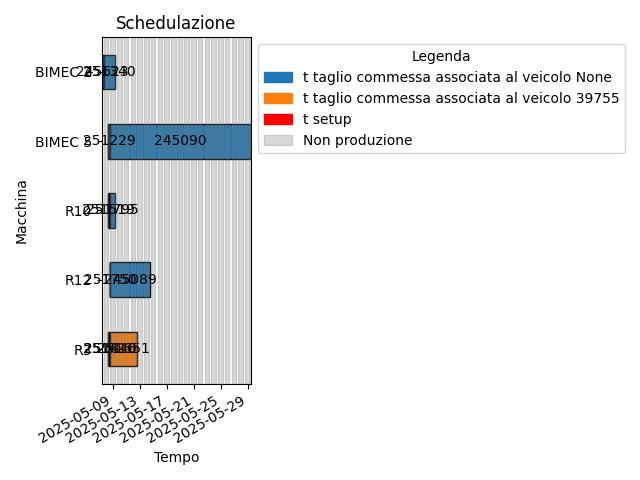
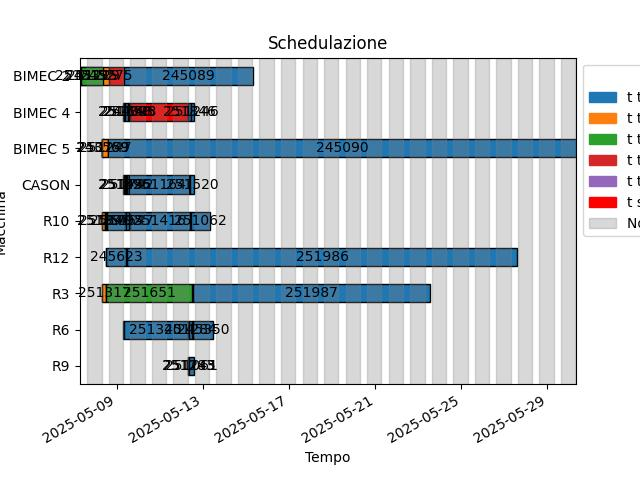
Test finale

diff --git a/PS-VRP/solver.py b/PS-VRP/solver.py
@@ -68,11 +68,11 @@ def aggiorna_schedulazione1(commessa: Commessa ,macchina: Macchina, tempo_setup,
 
 def filtro_commesse(lista_commesse:list,lista_veicoli):
     lista_veicoli_disponibili = [veicolo for veicolo in lista_veicoli] #if veicolo.disponibilita == 1]  # lista che contiene i veicoli disponibili (veicoli filtrati per disponibilità)
-    #print(f'lista veicoli disponibili {lista_veicoli_disponibili}')
     zone_aperte = set([veicolo.zone_coperte for veicolo in lista_veicoli_disponibili])  # set contenente tutte le zone aperte (una lista può contenere duplicati, mentre un set ha elementi unici)
     commesse_da_tagliare = [] #commesse assegnabili in base alle zone
     commesse_da_schedulare = [] #commesse assegnabili in base ai veicoli
     #commesse_oltre_data = {} #commesse da tagliare non schedulate perché oltre data partenza massima veicolo; formato dizionario per unirlo al resto
+    
     for commessa in lista_commesse:
         intersezione = set(commessa.zona_cliente).intersection(zone_aperte)  # calcolo l'intersezione tra l'insieme delle zone della commessa e le zone aperte
         if intersezione:  # se l'intersezione contiene elementi (è diversa dall'insieme vuoto)
@@ -96,7 +96,9 @@ def filtro_commesse(lista_commesse:list,lista_veicoli):
             for commessa in lista_commesse
             if commessa not in commesse_da_tagliare  and 0 not in commessa.zona_cliente
         }
-    
+        
+        commesse_zona_chiusa = [c for c in lista_commesse if c not in commesse_da_tagliare and 0 not in c.zona_cliente]
+
         #Nuova strutturazione dati
         commesse_filtro_veicoli = {}
         commesse_interne_solo_macchine = []
@@ -107,8 +109,9 @@ def filtro_commesse(lista_commesse:list,lista_veicoli):
                     'La commessa non può essere schedulata in quanto non sussiste compatibilità con i veicoli disponibili'
                 )
                 commesse_interne_solo_macchine.append(commessa)
+                #print(f'Numero di commesse solo su macchina: {len(commesse_interne_solo_macchine)}')
 
-    return commesse_da_schedulare, commesse_filtro_zone, commesse_filtro_veicoli, commesse_interne_solo_macchine
+    return commesse_da_schedulare, commesse_filtro_zone, commesse_filtro_veicoli, commesse_zona_chiusa
 
 def return_schedulazione(commessa: Commessa, macchina:Macchina, minuti_setup, minuti_processamento, minuti_fine_ultima_commessa, inizio_schedulazione, schedulazione):
     id=commessa.id_commessa
@@ -141,35 +144,30 @@ def return_schedulazione(commessa: Commessa, macchina:Macchina, minuti_setup, mi
                           "veicolo": camion})
 
 ##EURISTICO COSTRUTTIVO (Greedy)
-def euristico_costruttivo(lista_commesse:list, lista_macchine:list, lista_veicoli:list, commesse_interne_solo_macchine: list):
-    #data_partenza_veicoli(lista_commesse,lista_veicoli)
+def euristico_costruttivo(commesse_da_schedulare:list, lista_macchine:list, lista_veicoli:list, commesse_zona_chiusa: list):
     causa_fallimento={} #dizionario con formato "commessa_fallita:motivo"
-    #lista_commesse_0=[c for c in lista_commesse if 0 in c.zona_cliente] #lista commesse "zona zero" (vettori esterni)
-    #lista_commesse_restanti=[c for c in lista_commesse if 0 not in c.zona_cliente] #lista commesse vettori interni
-    #sorting separato
-    #lista_commesse_0.sort(key=lambda c: (c.due_date.timestamp(), c.priorita_cliente))
-    #lista_commesse_restanti.sort(key=lambda c: (c.due_date.timestamp(), c.priorita_cliente))
-    #riunione liste
-    #lista_commesse = lista_commesse_0 + lista_commesse_restanti
-    #for commessa in lista_commesse:
-    #    print(f'Commessa: {commessa.id_commessa}, Priorità: {commessa.priorita_cliente}, Due Date: {commessa.due_date.timestamp()}')
-    
-    #Nuovo criterio di ordinamento
-    lista_commesse_tempestive=[c for c in lista_commesse if c.tempestivita == 1]
-    commesse_interne_solo_macchine.sort(key=lambda c: (c.due_date.timestamp(), c.priorita_cliente))
-    
-    
+
+    ##NUOVO CRITERIO PER SEPARAZIONE COMMESSE FILTRATE
+    #Commesse tassative (i.e. veicolo predeterminato e obbligato)
+    lista_commesse_tassative=[c for c in commesse_da_schedulare if c.tassativita == 1]
+    #Commesse da schedulare non tassative (i.e. tutte le commesse filtrate non tassative)
+    commesse_da_schedulare = [c for c in commesse_da_schedulare if c not in lista_commesse_tassative]
+
     f_obj = 0  # funzione obiettivo (somma pesata dei tempi di setup)
     schedulazione = []  # è una lista che conterrà tutte le schedulazioni
+
+    #Inizializzazioni schedulazione
     for i in lista_macchine:
         Macchina.inizializza_lista_commesse(i)  # inizializzo ogni macchina con una commessa dummy
     inizio_schedulazione = lista_macchine[0].data_inizio_schedulazione  # è il primo lunedi disponibile che è uguale per tutte le macchine
-    lista_macchine_due=[]
-    while len(lista_commesse_tempestive)>0 and len(lista_macchine)>0:
+    lista_macchine_copy = deepcopy(lista_macchine)
+
+    #Primo ciclo While: si assegnano per prime tutte le commesse tassative alle macchine e al loro veicolo indicato (id_tassativo)
+    while len(lista_commesse_tassative)>0 and len(lista_macchine)>0:
         schedulazione_eseguita=False
         lista_macchine=sorted(lista_macchine,key=lambda macchina: macchina._minuti_fine_ultima_lavorazione)
         macchina=lista_macchine[0]
-        for commessa in lista_commesse_tempestive:
+        for commessa in lista_commesse_tassative:
             if 0 in commessa.zona_cliente:
                 if macchina.disponibilita == 1 and commessa.compatibilita[macchina.nome_macchina] == 1 and commessa._minuti_release_date <= macchina._minuti_fine_ultima_lavorazione:
                     tempo_inizio_taglio = macchina._minuti_fine_ultima_lavorazione
@@ -179,10 +177,11 @@ def euristico_costruttivo(lista_commesse:list, lista_macchine:list, lista_veicol
                     data_fine_lavorazione = aggiungi_minuti(tempo_fine_lavorazione, inizio_schedulazione)
                     schedulazione_eseguita=True
                     f_obj+=tempo_setup
+                    commessa.veicolo = "Veicolo esterno" #da fare prima dell'aggiornamento
                     aggiorna_schedulazione1(commessa,macchina,tempo_setup,tempo_processamento,inizio_schedulazione,schedulazione,macchina._minuti_fine_ultima_lavorazione)
-                    lista_commesse_tempestive.remove(commessa)
-                    commessa.veicolo = "Veicolo esterno"
-                if schedulazione_eseguita==True:
+                    lista_commesse_tassative.remove(commessa)
+                if schedulazione_eseguita:
+                    print(f'SUCCESSI ESTERNE TASSATIVE')
                     break
             elif macchina.disponibilita == 1 and commessa.compatibilita[macchina.nome_macchina] == 1 and commessa._minuti_release_date <= macchina._minuti_fine_ultima_lavorazione:
                 tempo_inizio_taglio = macchina._minuti_fine_ultima_lavorazione
@@ -190,19 +189,48 @@ def euristico_costruttivo(lista_commesse:list, lista_macchine:list, lista_veicol
                 tempo_setup = macchina.calcolo_tempi_setup(macchina.lista_commesse_processate[-1],commessa)  # calcolo il tempo di setup come il tempo necessario a passare dall'ultima lavorazione alla lavorazione in questione
                 tempo_fine_lavorazione = tempo_inizio_taglio + tempo_processamento + tempo_setup
                 data_fine_lavorazione = aggiungi_minuti(tempo_fine_lavorazione, inizio_schedulazione)
+                schedulazione_eseguita=True
+                f_obj+=tempo_setup
+                commessa.veicolo = int(commessa.id_tassativo) #da mettere prima dell'aggiornamento
+                aggiorna_schedulazione1(commessa,macchina,tempo_setup,tempo_processamento,inizio_schedulazione,schedulazione,macchina._minuti_fine_ultima_lavorazione)
+                lista_commesse_tassative.remove(commessa)
+            if schedulazione_eseguita:
+                print(f'SUCCESSI INTERNE TASSATIVE')
+                break
+        if not schedulazione_eseguita:
+            lista_macchine.remove(macchina)
+
+    #Si ricostituisce la lista delle macchine    
+    lista_macchine = lista_macchine_copy
+
+    #Secondo ciclo While: provo a inserire tutte le commesse interne (su macchine e veicoli)
+    while len(commesse_da_schedulare)>0 and len(lista_macchine)>0:
+        schedulazione_eseguita=False
+        lista_macchine=sorted(lista_macchine,key=lambda macchina: macchina._minuti_fine_ultima_lavorazione)
+        macchina=lista_macchine[0]
+        for commessa in commesse_da_schedulare:
+            if macchina.disponibilita == 1 and commessa.compatibilita[macchina.nome_macchina] == 1 and commessa._minuti_release_date <= macchina._minuti_fine_ultima_lavorazione:
+                #tempo_inizio_taglio = macchina._minuti_fine_ultima_lavorazione
+                #tempo_processamento = commessa.metri_da_tagliare / macchina.velocita_taglio_media  # calcolo il tempo necessario per processare la commessa che è dato dai metri da tagliare/velocita taglio (tempo=spazio/velocita)
+                #tempo_setup = macchina.calcolo_tempi_setup(macchina.lista_commesse_processate[-1],commessa)  # calcolo il tempo di setup come il tempo necessario a passare dall'ultima lavorazione alla lavorazione in questione
+                #tempo_fine_lavorazione = tempo_inizio_taglio + tempo_processamento + tempo_setup
+                #data_fine_lavorazione = aggiungi_minuti(tempo_fine_lavorazione, inizio_schedulazione)
+                #schedulazione_eseguita=True
+                #f_obj+=tempo_setup
+                #aggiorna_schedulazione1(commessa,macchina,tempo_setup,tempo_processamento,inizio_schedulazione,schedulazione,macchina._minuti_fine_ultima_lavorazione)
                 veicoli_feasible = [veicolo for veicolo in lista_veicoli if (veicolo.zone_coperte in commessa.zona_cliente)] #and veicolo.disponibilita == 1)]
                 for veicolo in veicoli_feasible:
                     if data_fine_lavorazione <= veicolo.data_partenza and veicolo.capacita >= commessa.kg_da_tagliare:
+                        tempo_inizio_taglio = macchina._minuti_fine_ultima_lavorazione
+                        tempo_processamento = commessa.metri_da_tagliare / macchina.velocita_taglio_media  # calcolo il tempo necessario per processare la commessa che è dato dai metri da tagliare/velocita taglio (tempo=spazio/velocita)
+                        tempo_setup = macchina.calcolo_tempi_setup(macchina.lista_commesse_processate[-1],commessa)  # calcolo il tempo di setup come il tempo necessario a passare dall'ultima lavorazione alla lavorazione in questione
+                        tempo_fine_lavorazione = tempo_inizio_taglio + tempo_processamento + tempo_setup
+                        data_fine_lavorazione = aggiungi_minuti(tempo_fine_lavorazione, inizio_schedulazione)
                         commessa.veicolo=veicolo.nome
                         veicolo.capacita-=commessa.kg_da_tagliare
                         schedulazione_eseguita=True
                         f_obj+=tempo_setup
                         aggiorna_schedulazione1(commessa,macchina,tempo_setup,tempo_processamento,inizio_schedulazione,schedulazione,macchina._minuti_fine_ultima_lavorazione)
-                        lista_commesse_tempestive.remove(commessa)
-                    #if data_fine_lavorazione > veicolo.data_partenza:
-                    #    causa_fallimento[commessa.id_commessa] = (
-                    #    f'La commessa non viene completata in tempo per la partenza del veicolo {veicolo.nome}'
-                    #    )
                     elif veicolo.capacita < commessa.kg_da_tagliare:
                         causa_fallimento[commessa.id_commessa] = (
                         f'La commessa è troppo grande per il veicolo {veicolo.nome}'
@@ -210,21 +238,23 @@ def euristico_costruttivo(lista_commesse:list, lista_macchine:list, lista_veicol
                     if schedulazione_eseguita: 
                         causa_fallimento.pop(commessa.id_commessa, None) #rimuovo la commessa da quelle non schedulate; potrebbe succedere che alcune non siano schedulate subito ma in seguito sì
                         break
-                #if schedulazione_eseguita:
-                    #break
             if schedulazione_eseguita:
+                commesse_da_schedulare.remove(commessa)
                 break
         if not schedulazione_eseguita:
             lista_macchine.remove(macchina)
-            lista_macchine_due.append(macchina)
-            #print(f'Mancano {len(lista_commesse)} commesse quando chiudo la macchina {macchina.nome_macchina}')
-            #print(f"Le commesse mancanti sono: {', '.join(str(c.id_commessa) for c in lista_commesse)}")
-    inizio_schedulazione = lista_macchine_due[0].data_inizio_schedulazione  # è il primo lunedi disponibile che è uguale per tutte le macchine
-    while len(commesse_interne_solo_macchine)>0 and len(lista_macchine_due)>0:
+
+    lista_macchine = lista_macchine_copy
+
+    commesse_da_schedulare = commesse_da_schedulare + commesse_zona_chiusa
+    #Da rivedere il terzo ciclo perché ci sono sicuramente duplicati
+
+    #Terzo ciclo While: inserisco solo sulle macchine tutte le commesse mancanti 
+    while len(commesse_da_schedulare)>0 and len(lista_macchine)>0:
         schedulazione_eseguita=False
-        lista_macchine_due=sorted(lista_macchine,key=lambda macchina: macchina._minuti_fine_ultima_lavorazione)
-        macchina=lista_macchine_due[0]
-        for commessa in commesse_interne_solo_macchine:
+        lista_macchine=sorted(lista_macchine,key=lambda macchina: macchina._minuti_fine_ultima_lavorazione)
+        macchina=lista_macchine[0]
+        for commessa in commesse_da_schedulare:
             if macchina.disponibilita == 1 and commessa.compatibilita[macchina.nome_macchina] == 1 and commessa._minuti_release_date <= macchina._minuti_fine_ultima_lavorazione:
                 tempo_inizio_taglio = macchina._minuti_fine_ultima_lavorazione
                 tempo_processamento = commessa.metri_da_tagliare / macchina.velocita_taglio_media  # calcolo il tempo necessario per processare la commessa che è dato dai metri da tagliare/velocita taglio (tempo=spazio/velocita)
@@ -233,17 +263,16 @@ def euristico_costruttivo(lista_commesse:list, lista_macchine:list, lista_veicol
                 data_fine_lavorazione = aggiungi_minuti(tempo_fine_lavorazione, inizio_schedulazione)
                 schedulazione_eseguita=True
                 f_obj+=tempo_setup
+                commessa.veicolo = "NESSUN VEICOLO (solo macchina)"
                 aggiorna_schedulazione1(commessa,macchina,tempo_setup,tempo_processamento,inizio_schedulazione,schedulazione,macchina._minuti_fine_ultima_lavorazione)
-                commesse_interne_solo_macchine.remove(commessa)
-                commessa.veicolo = "Schedulata solo su macchina"
-            if schedulazione_eseguita==True:
+            if schedulazione_eseguita:
+                commesse_da_schedulare.remove(commessa)
                 break
         if not schedulazione_eseguita:
             lista_macchine.remove(macchina)
-            lista_macchine_due.append(macchina)
-    #print(f"Le commesse non schedulate sono: {', '.join(str(c.id_commessa) for c in lista_commesse)}")
-    #print(causa_fallimento)
     return schedulazione, f_obj, causa_fallimento
+
+
 
 ##INSERT INTER-MACCHINA (Ricerca locale 1)
 def move_2_macchine(lista_macchine: list, lista_veicoli:list, f_obj,schedulazione: list):

diff --git a/PS-VRP/main.py b/PS-VRP/main.py
@@ -36,8 +36,8 @@ print(f"{Fore.GREEN}{Style.BRIGHT}COMMESSE SENZA CAMPI MANCANTI (LETTE CORRETTAM
 
 start_time_eur = time.time()
 
-commesse_da_schedulare, commesse_filtro_zone, commesse_filtro_veicoli, commesse_interne_solo_macchine = solver.filtro_commesse(lista_commesse, lista_veicoli)
-schedulazione3, f_obj3, causa_fallimento, commesse_interne_solo_macchine = solver.euristico_costruttivo(commesse_da_schedulare, lista_macchine, lista_veicoli)
+commesse_da_schedulare, commesse_filtro_zone, commesse_filtro_veicoli, commesse_zona_chiusa = solver.filtro_commesse(lista_commesse, lista_veicoli)
+schedulazione3, f_obj3, causa_fallimento = solver.euristico_costruttivo(commesse_da_schedulare, lista_macchine, lista_veicoli, commesse_zona_chiusa)
 output.write_output_soluzione_euristica(schedulazione3, "PS-VRP/OUTPUT_TEST/euristico_costruttivo.xlsx")
 print(f'Fallimenti euristico costruttivo {len(causa_fallimento)}; Filtrate per zone {len(commesse_filtro_zone)}; Filtrate per veicoli {len(commesse_filtro_veicoli)}')
 commesse_non_schedulate = causa_fallimento | commesse_filtro_zone | commesse_filtro_veicoli #| commesse_oltre_data (in caso d'uso, da reinserire eventualmente anche come output della chiamata al solver)
@@ -48,6 +48,13 @@ print(f"\n{Fore.YELLOW}Funzione obiettivo euristico: {f_obj3} minuti di setup\n"
 
 end_time_eur = time.time()
 tot_time_eur = end_time_eur - start_time_eur
+
+
+print(f"{Fore.GREEN}COMMESSE LETTE CORRETTAMENTE: {len(lista_commesse)}")
+print(f"{Fore.GREEN}COMMESSE DA SCHEDULARE (FILTRATE): {len(commesse_da_schedulare)}")
+print(f"{Fore.GREEN}COMMESSE SCHEDULATE: {len(schedulazione3)}\n")
+
+
 solver.grafico_schedulazione(schedulazione3)
 
 
